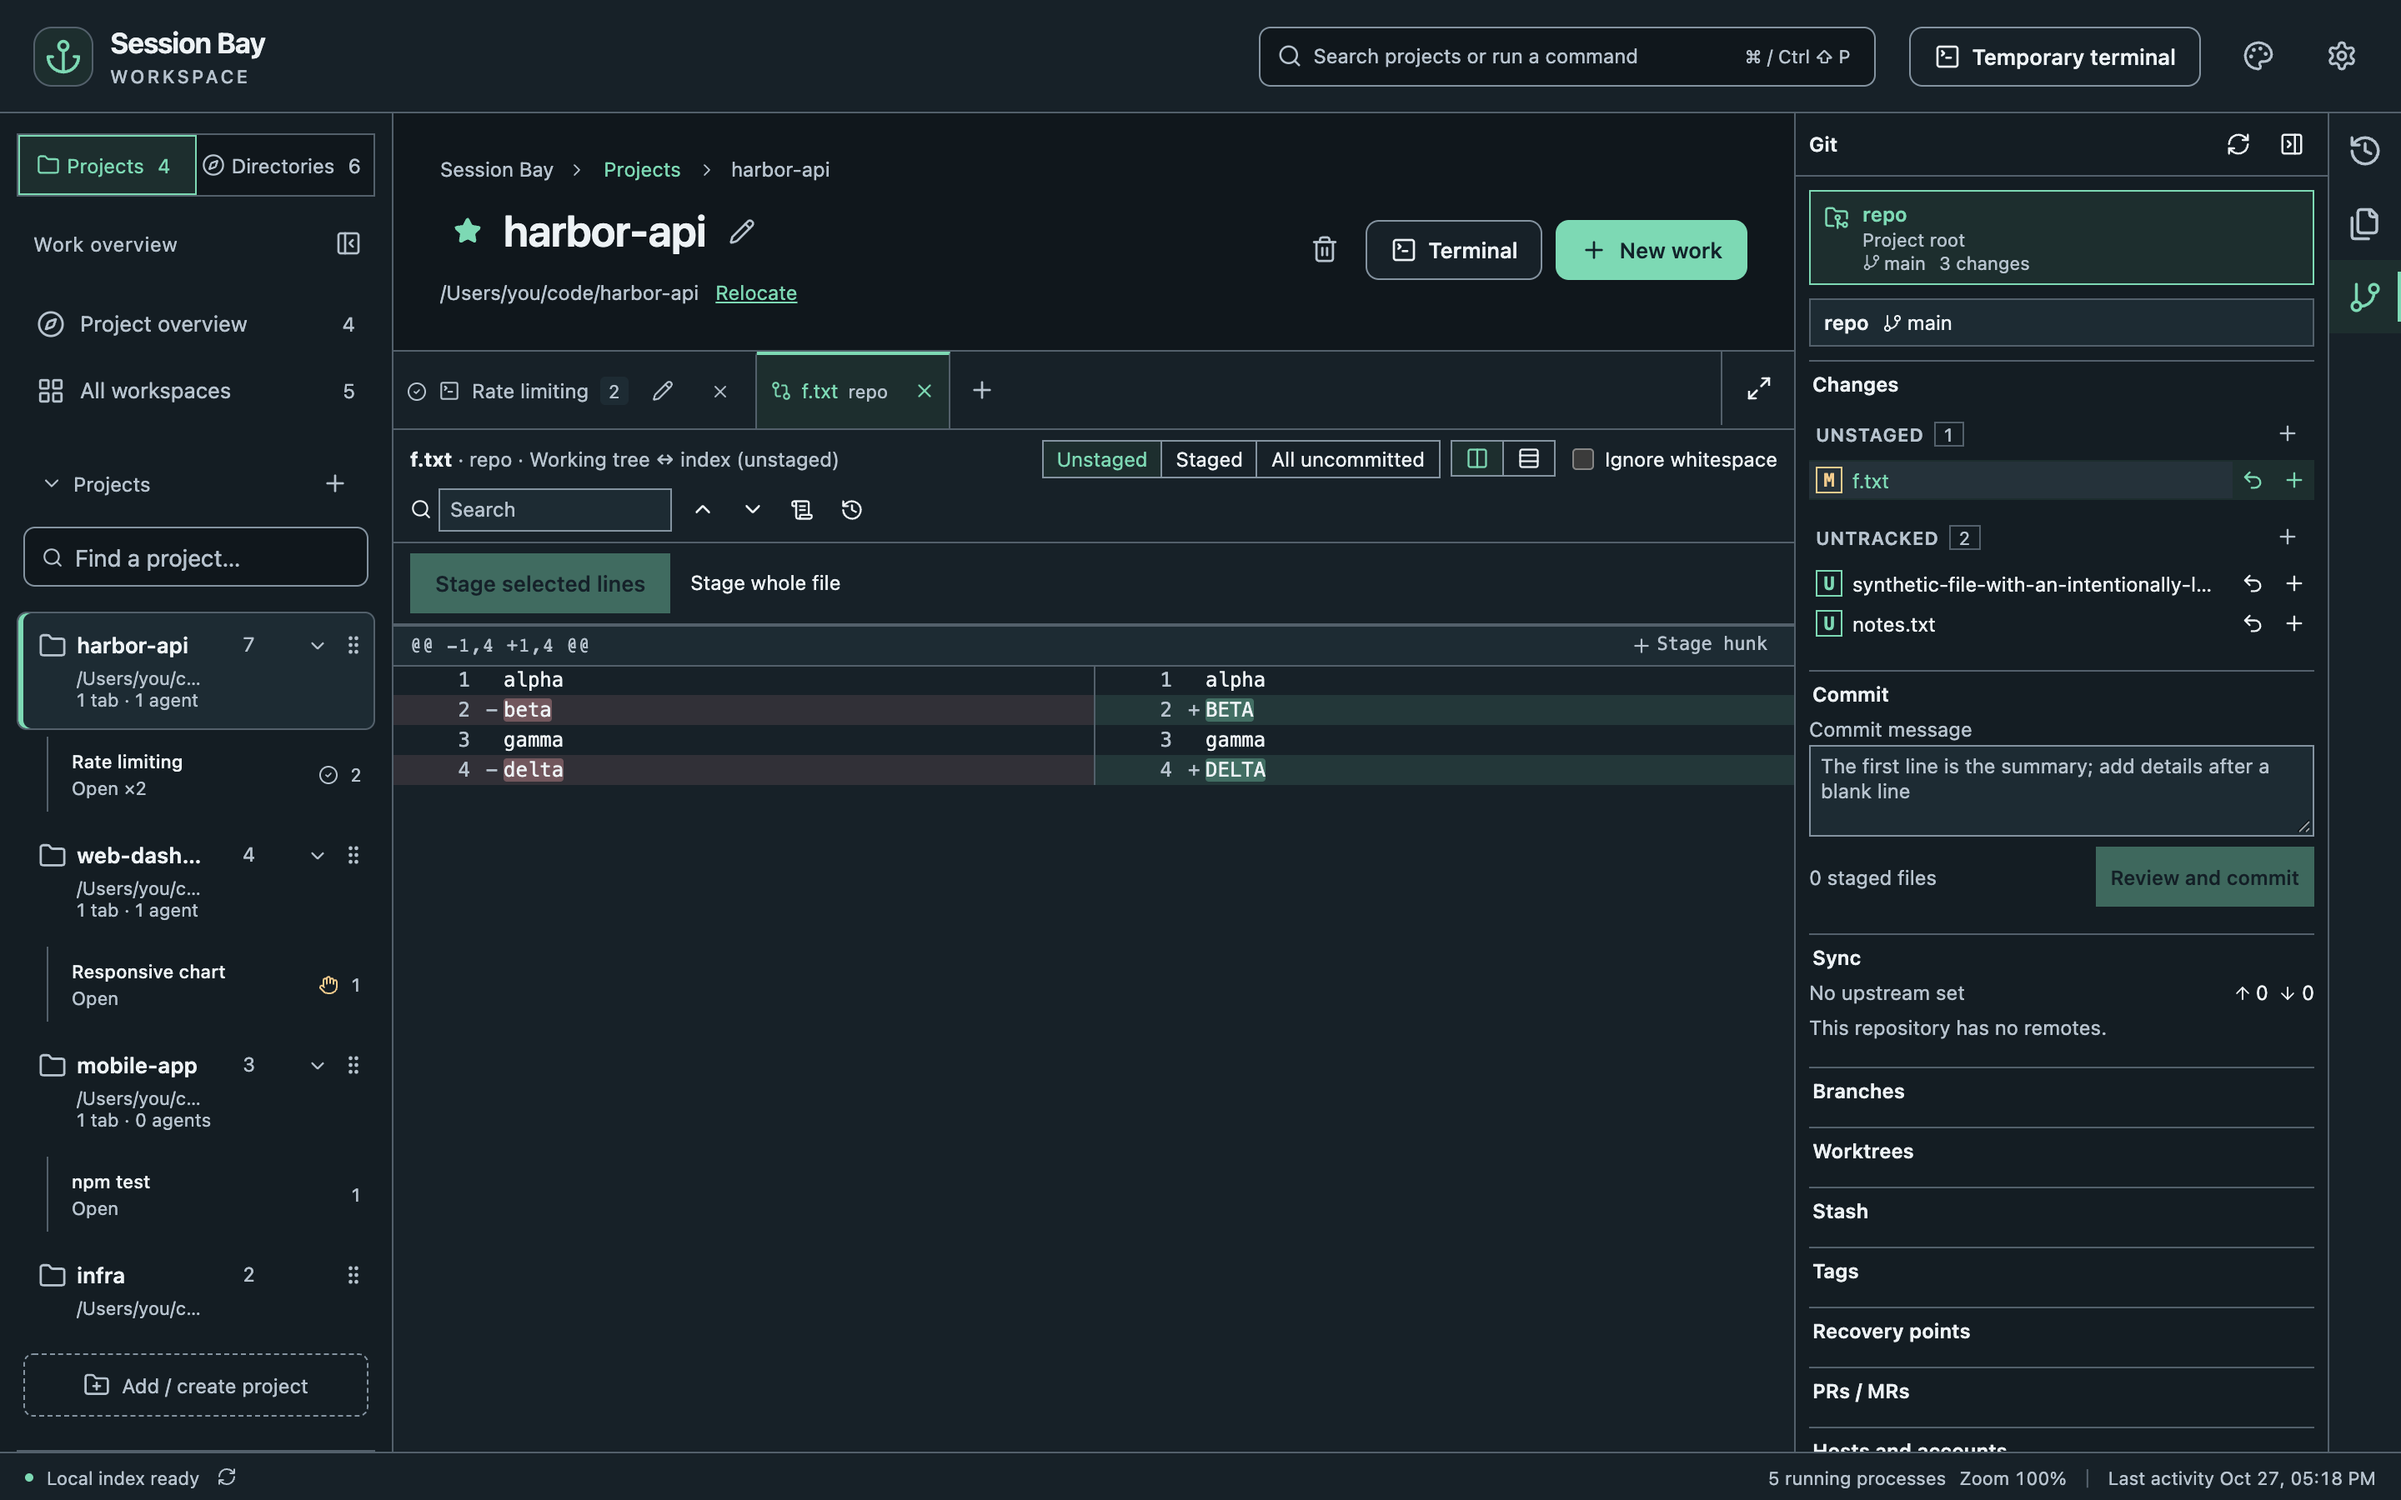
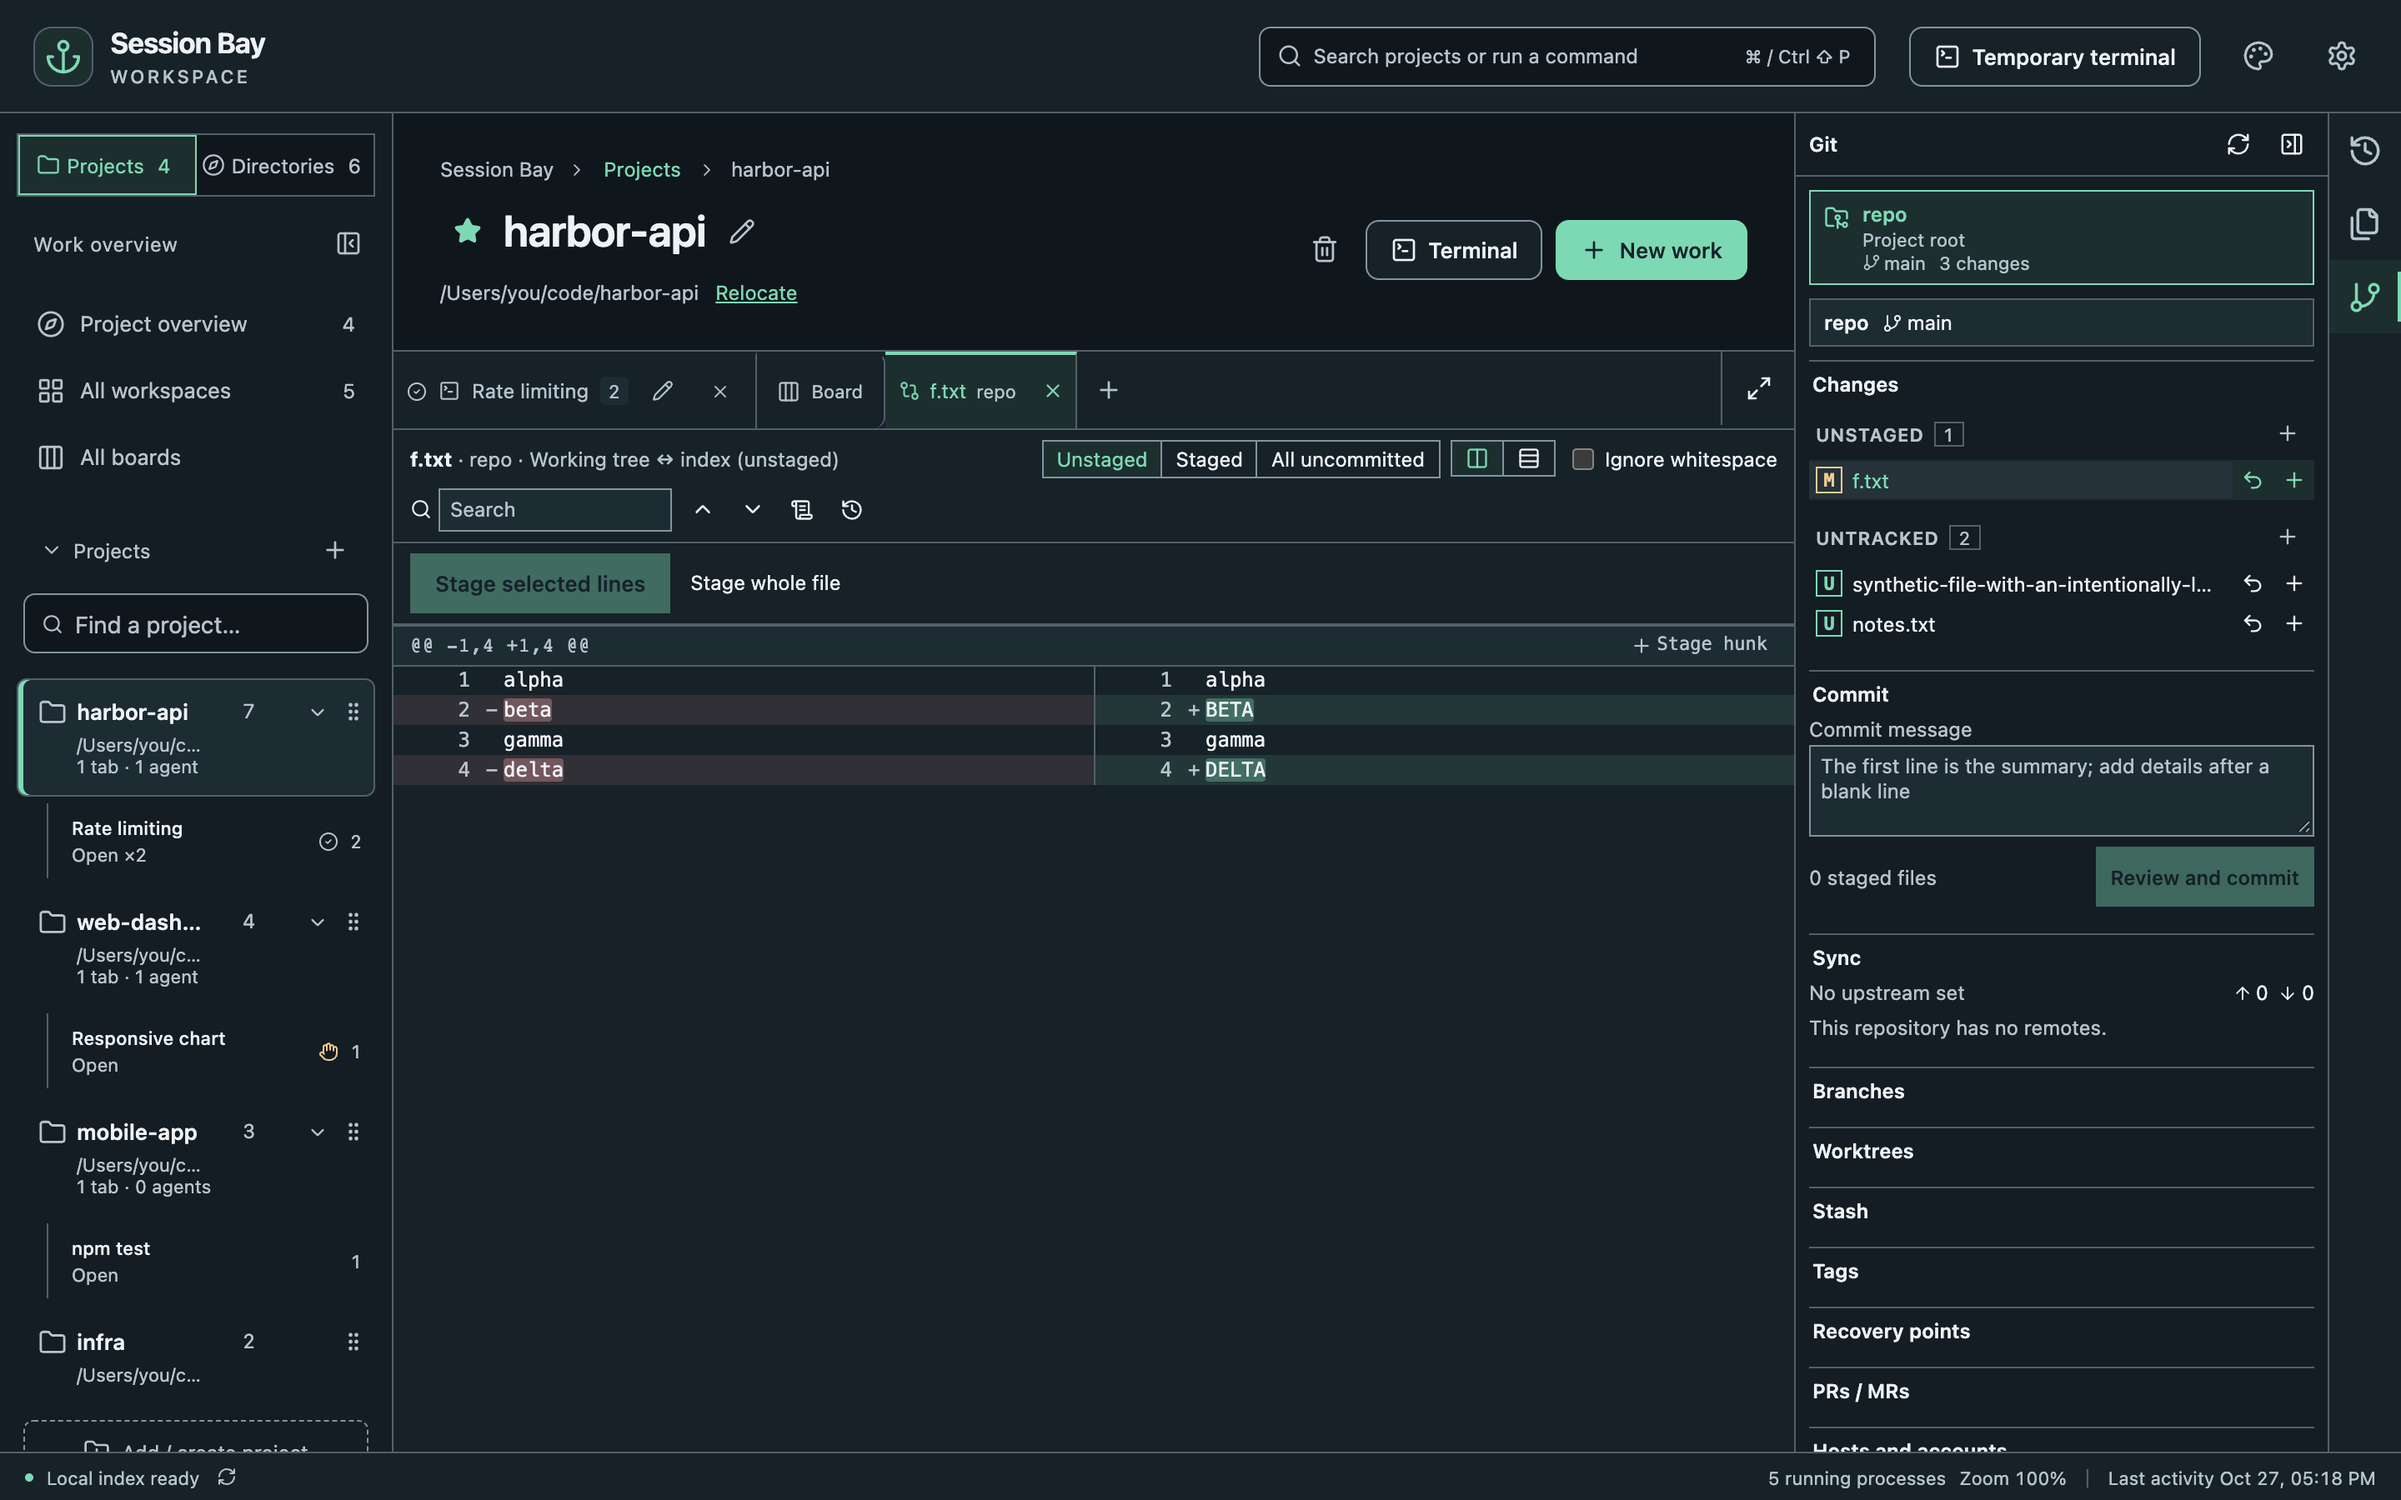
docs: add the Kanban guide and screenshots

diff --git a/website/src/content/docs/guide/kanban.md b/website/src/content/docs/guide/kanban.md
@@ -1,0 +1,56 @@
+---
+title: Kanban boards
+description: Plan project tasks, attach agent sessions and track work across every board.
+---
+
+## Enable a project board
+
+Open a project from **Projects**, select the **Board** tab beside its workspace tabs, then choose **Enable board**. Only projects you have added to Projects can have a board; add a directory there first if it only appears in All directories.
+
+![A project board with tasks grouped into configurable columns](../../../assets/screenshots/en/board.png)
+
+Each card represents a task and can hold zero or more agent sessions. Choose **New task** to plan work before starting an agent. New sessions enter **Unsorted** after you enable the board. Older history stays outside the board until you resume it or use **Attach from history** in a task's details. Child sessions follow their parent task.
+
+Board data stays in Session Bay's local catalog, survives index rebuilds and is never written into the project folder or agent history.
+
+## Columns, stages and movement
+
+The default columns are **Unsorted**, **Todo**, **In progress**, **Review** and **Done**. Use **Add column** or a column's settings to rename, reorder or add columns and choose their stage. Unsorted and Done are system columns: you can rename and reorder them, but their stage is fixed and they cannot be deleted. Deleting another column requires choosing a destination for all its tasks, including archived ones.
+
+Drag a card to reorder it or move it to another column. Use its **Move to…** menu for the same actions without dragging. On the card's drag handle, **Alt+Up/Down** changes order and **Alt+Left/Right** changes column. Press **Escape** to cancel a drag.
+
+Movement is manual. An agent finishing a turn does not move its task to Done.
+
+## Task details and sessions
+
+Select a task title to edit its title and notes, attach an older session, or resume an attached session. Save changes before starting work.
+
+**Start work** opens the existing agent or shell launcher in the project's folder, or in the task's linked worktree. The task title and notes are inserted into the terminal input **without being sent**, once safe paste mode is available. Review them before pressing Enter. If safe paste mode is unavailable, use **Copy task text** instead. Plain shells do not create an indexed agent session.
+
+You can merge tasks by dropping one on the center of another in a project board, or choosing a target in task details. Review the confirmation: sessions and notes move to the target and the source task is deleted. Use **Split into new task** on an attached session to separate it again. Merging never crosses projects.
+
+Linked worktree sessions belong to the main project's board and show their branch. **Create worktree** in task details binds the new checkout to that task so sessions started there attach automatically.
+
+## All boards
+
+Choose **All boards** below **All workspaces** in the sidebar to see tasks from every enabled project board in five fixed stage columns. Custom and renamed project columns are grouped by their stage. Each card shows its project's color, initials and name.
+
+![The All boards overview showing tasks from multiple projects by stage](../../../assets/screenshots/en/all-boards.png)
+
+Filter by **Project**, text, **Agent**, and **Needs attention**. Text matches task titles, notes and attached session titles. Needs attention uses the attached sessions' live input/permission or error status. You can combine all four filters.
+
+Drag a card to another stage, use **Move to…**, or press **Alt+Left/Right** on its handle. The card goes to the **first column for that stage in its own project's column order**, after that column's existing tasks. A destination is unavailable when that project has no column for the stage. Dropping over a different project's card still changes only the stage; it does not merge the cards or change the task's project.
+
+Task details, start and resume also work from this overview. Use the project board to change columns or reorder cards within a column.
+
+## Done, archive and cleanup
+
+A Done task offers three separate actions:
+
+- **Archive task** hides it while keeping its sessions. Open **Archived tasks** on the project board to restore it.
+- **Delete task** removes the card and lets you return its sessions to Unsorted or leave them off the board. History is untouched.
+- **Recycle attached sessions…** uses the existing per-session confirmation flow. Recycled sessions are hidden from the task and return if restored.
+
+**Auto-archive** on the project board can archive Done tasks after a chosen number of days without task changes. It is off by default. Archived tasks are hidden from All boards.
+
+If a session's source is confirmed missing or the session is moved to the system trash, its link is removed; the task remains, even if it becomes empty. None of these board operations rewrites agent history.

diff --git a/website/src/content/docs/zh-tw/guide/kanban.md b/website/src/content/docs/zh-tw/guide/kanban.md
@@ -1,0 +1,56 @@
+---
+title: 看板
+description: 規劃專案工作、附加 Agent Sessions，並跨看板追蹤進度。
+---
+
+## 啟用專案看板
+
+從**專案**開啟專案，選擇工作區分頁旁的**看板**，再按**啟用看板**。只有加入「專案」的目錄能啟用看板；若目錄只出現在「所有目錄」，請先將它加入專案。
+
+![專案看板將工作分組至可自訂的欄位](../../../../assets/screenshots/zh-tw/board.png)
+
+每張卡片代表一項工作，可以附加零個或多個 Agent Sessions。按**新增工作**即可在啟動 Agent 前先規劃。啟用看板後，新的 Sessions 會進入**未分類**；較舊的歷史紀錄維持原狀，直到你接續執行，或從工作詳情使用**從歷史附加**。子 Sessions 會跟隨父 Session 所屬的工作。
+
+看板資料只儲存在 Session Bay 的本機目錄資料庫，重建索引後仍保留，不會寫入專案資料夾或 Agent 歷史紀錄。
+
+## 欄位、階段與移動
+
+預設欄位是**未分類**、**待辦**、**進行中**、**待審查**與**完成**。使用**新增欄位**或欄位設定，可以重新命名、排序、新增欄位與選擇階段。未分類與完成是系統欄位：可以重新命名與排序，但階段固定，且不能刪除。刪除其他欄位前，必須先選擇所有工作（包含已封存工作）的目的地。
+
+拖曳卡片可以排序或移至其他欄位；也能使用卡片的**移至…**選單，不必拖曳。在卡片的拖曳把手上，按 **Alt+上／下方向鍵**調整順序，按 **Alt+左／右方向鍵**切換欄位。按 **Escape** 取消拖曳。
+
+移動完全由你決定。Agent 完成一輪回覆，不會自動把工作移到完成。
+
+## 工作詳情與 Sessions
+
+點選工作標題，即可編輯標題與備註、附加較舊的 Session，或接續附加的 Session。開始工作前，請先儲存變更。
+
+**開始工作**會在專案資料夾或工作綁定的 worktree 開啟現有的 Agent／Shell 啟動介面。終端機提供安全貼上模式後，工作標題與備註會插入輸入區，**不會送出**；請先檢查再按 Enter。若無法使用安全貼上模式，可以改按**複製工作內容**。一般 Shell 不會建立可索引的 Agent Session。
+
+在專案看板中，將卡片拖曳到另一張卡片中央，或在詳情中選擇目標，即可合併工作。請檢查確認內容：Sessions 與備註會移至目標工作，來源工作會刪除。附加的 Session 也能透過**拆分為新工作**再次分開。合併不會跨越專案。
+
+連結的 worktree 中的 Sessions 屬於主專案看板，並顯示分支。工作詳情的**建立 worktree**會將新 checkout 綁定至該工作，之後在其中啟動的 Sessions 會自動附加。
+
+## 全部看板
+
+從側邊欄**全部工作區**下方選擇**全部看板**，即可在五個固定階段欄位中查看每個已啟用專案看板的工作。專案自訂或重新命名的欄位會依階段分組。每張卡片都顯示專案顏色、縮寫與名稱。
+
+![全部看板依階段顯示多個專案的工作](../../../../assets/screenshots/zh-tw/all-boards.png)
+
+可依**專案**、文字、**Agent** 與**需要處理**篩選。文字搜尋包含工作標題、備註與附加 Session 的標題。「需要處理」使用附加 Sessions 的即時狀態，包含等待輸入／權限與錯誤。四種篩選可以一起使用。
+
+將卡片拖曳到另一階段、使用**移至…**，或在把手上按 **Alt+左／右方向鍵**，卡片就會移至**所屬專案依欄位順序第一個符合該階段的欄位**，接在既有工作之後。若專案沒有該階段的欄位，便無法選擇該目的地。拖曳到其他專案的卡片上，也只會改變階段，不會合併卡片或更改工作的專案。
+
+總覽也能開啟詳情、開始工作與接續 Session。調整欄位或欄內卡片順序，請使用專案看板。
+
+## 完成、封存與清理
+
+已完成的工作有三種獨立動作：
+
+- **封存工作**：隱藏工作並保留 Sessions。在專案看板開啟**已封存工作**，即可還原。
+- **刪除工作**：移除卡片，並讓你選擇將 Sessions 返回未分類，或從看板移除；歷史紀錄不變。
+- **將附加的 Sessions 移至資源回收筒…**：使用既有的逐一確認流程。回收的 Sessions 會從工作中隱藏，還原後會再次出現。
+
+專案看板中的**自動封存**可設定：已完成工作在指定天數內沒有工作內容變更後自動封存，預設關閉。全部看板不顯示已封存工作。
+
+若確認 Session 的來源已消失，或 Session 已移至系統垃圾桶，其連結會移除；即使沒有剩下任何 Session，工作仍會保留。這些看板操作都不會改寫 Agent 歷史紀錄。

diff --git a/README.md b/README.md
@@ -27,6 +27,7 @@ Session Bay indexes the local history of every supported agent, brings it togeth
 - **Real terminals** — tabs and split panes backed by real PTYs. Run agents, dev servers and tests side by side.
 - **Keeps running when you close the window** — a background broker owns the processes; reopen Session Bay and reattach to the same running agents.
 - **Attention notifications** — get a system notification when an agent is waiting for you, finishes or fails; click it to jump to that pane.
+- **[Kanban boards](https://fullstackladder.dev/SessionBay/guide/kanban/)** — plan tasks per project, attach agent sessions, and track every enabled board by stage in All boards.
 - **Git workbench** — diff with partial staging, commit, push/pull, history graph and blame, branches, stash, worktrees, three-way conflict resolution, and GitHub / self-hosted GitLab pull requests.
 - **Drop files and images into agents**, preview workspace files and images, and open a temporary terminal without creating a project.
 - **Safe cleanup** — sessions go to a recycle bin first; you can then move a session's files to the system trash after reviewing exactly what will move, and restore it later.

diff --git a/CHANGELOG.md b/CHANGELOG.md
@@ -6,7 +6,7 @@ All notable changes to this project are documented here. The format follows [Kee
 
 ### Added
 
-- Project boards with configurable columns, manual card ordering, live agent status and filters; task details, safe start/resume, merge/split, worktree binding, archive/restore, optional auto-archive and per-session recycling.
+- Project boards with configurable columns, manual card ordering, live agent status and filters; task details, safe start/resume, merge/split, worktree binding, archive/restore, optional auto-archive and per-session recycling. All boards groups enabled project boards by stage, with project identity, project/text/agent/attention filters and stage moves that preserve project ownership.
 
 ### Fixed
 
